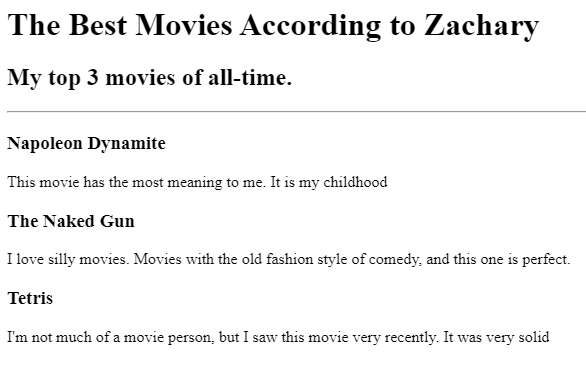
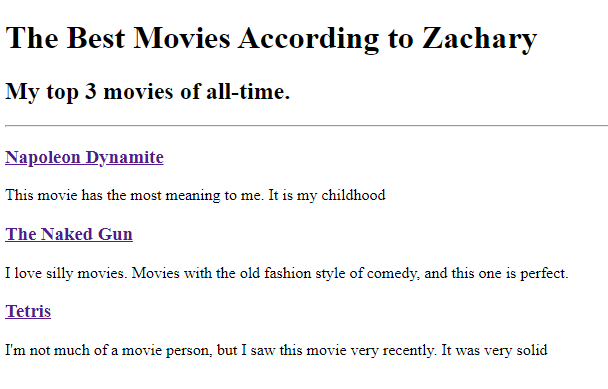
Add files via upload

diff --git a/public/birthday-invite.html b/public/birthday-invite.html
@@ -1,24 +1,28 @@
-<!-- Example image URL -->
+<!DOCTYPE html>
+<html lang="en">
+<head>
+    <meta charset="UTF-8">
+    <meta name="viewport" content="width=device-width, initial-scale=1.0">
+    <title>Birthday Invite Project</title>
+</head>
 
+<body>
+    <!-- Example image URL -->
+    <!-- Example Google Maps Link -->
+    <h1>It's My Birthday!</h1>
+    <h2>On the 15th January</h2>
 
-<!-- Example Google Maps Link -->
+    <img src="https://raw.githubusercontent.com/appbrewery/webdev/main/birthday-cake3.4.jpeg" alt="Birthday Cake"/>
 
+    <h3>What to bring:</h3>
+    <ul>
+        <li>Baloons (I love baloons)</li>
+        <li>Cake (I'm really good at eating)</li>
+        <li>An appetite (There will be lots of food)</li>
+    </ul>
 
+    <h3>This is where you need to go:</h3>
+    <a href="https://www.google.com/maps/@35.7040744,139.5577317,3a,75y,289.6h,87.01t,0.72r/data=!3m6!1e1!3m4!1sgT28ssf0BB2LxZ63JNcL1w!2e0!7i13312!8i6656">Google map link</a>
 
-
-<h1>It's My Birthday!</h1>
-<h2>On the 15th January</h2>
-
-<img src="https://raw.githubusercontent.com/appbrewery/webdev/main/birthday-cake3.4.jpeg" 
-    alt="Birthday Cake"/>
-
-<h3>What to bring:</h3>
-<ul>
-    <li>Baloons (I love baloons)</li>
-    <li>Cake (I'm really good at eating)</li>
-    <li>An appetite (There will be lots of food)</li>
-</ul>
-
-<h3>This is where you need to go:</h3>
-<a href="https://www.google.com/maps/@35.7040744,139.5577317,3a,75y,289.6h,87.01t,0.72r/data=!3m6!1e1!3m4!1sgT28ssf0BB2LxZ63JNcL1w!2e0!7i13312!8i6656">
-    Google map link</a>
+</body>
+</html>

diff --git a/public/movie-ranking.html b/public/movie-ranking.html
@@ -1,14 +1,24 @@
-<!-- Write your code below -->
-<h1>The Best Movies According to Zachary</h1>
-<h2>My top 3 movies of all-time.</h2>
+<!DOCTYPE html>
+<html lang="en">
+<head>
+    <meta charset="UTF-8">
+    <meta name="viewport" content="width=device-width, initial-scale=1.0">
+    <title>Movie Ranking Project</title> 
+</head>
+<body>
+    <!-- Write your code below -->
+    <h1>The Best Movies According to Zachary</h1>
+    <h2>My top 3 movies of all-time.</h2>
 
-<hr />
+    <hr />
 
-<h3>Napoleon Dynamite</h3>
-<p>This movie has the most meaning to me. It is my childhood</p>
+    <h3><a href="https://www.imdb.com/title/tt0374900/">Napoleon Dynamite</a></h3>
+    <p>This movie has the most meaning to me. It is my childhood</p>
 
-<h3>The Naked Gun</h3>
-<p>I love silly movies. Movies with the old fashion style of comedy, and this one is perfect.</p>
+    <h3><a href="https://www.imdb.com/title/tt0095705/">The Naked Gun</a></h3>
+    <p>I love silly movies. Movies with the old fashion style of comedy, and this one is perfect.</p>
 
-<h3>Tetris</h3>
-<p>I'm not much of a movie person, but I saw this movie very recently. It was very solid</p>
+    <h3><a href="https://www.imdb.com/title/tt12758060/">Tetris</a></h3>
+    <p>I'm not much of a movie person, but I saw this movie very recently. It was very solid</p>
+</body>
+</html>
